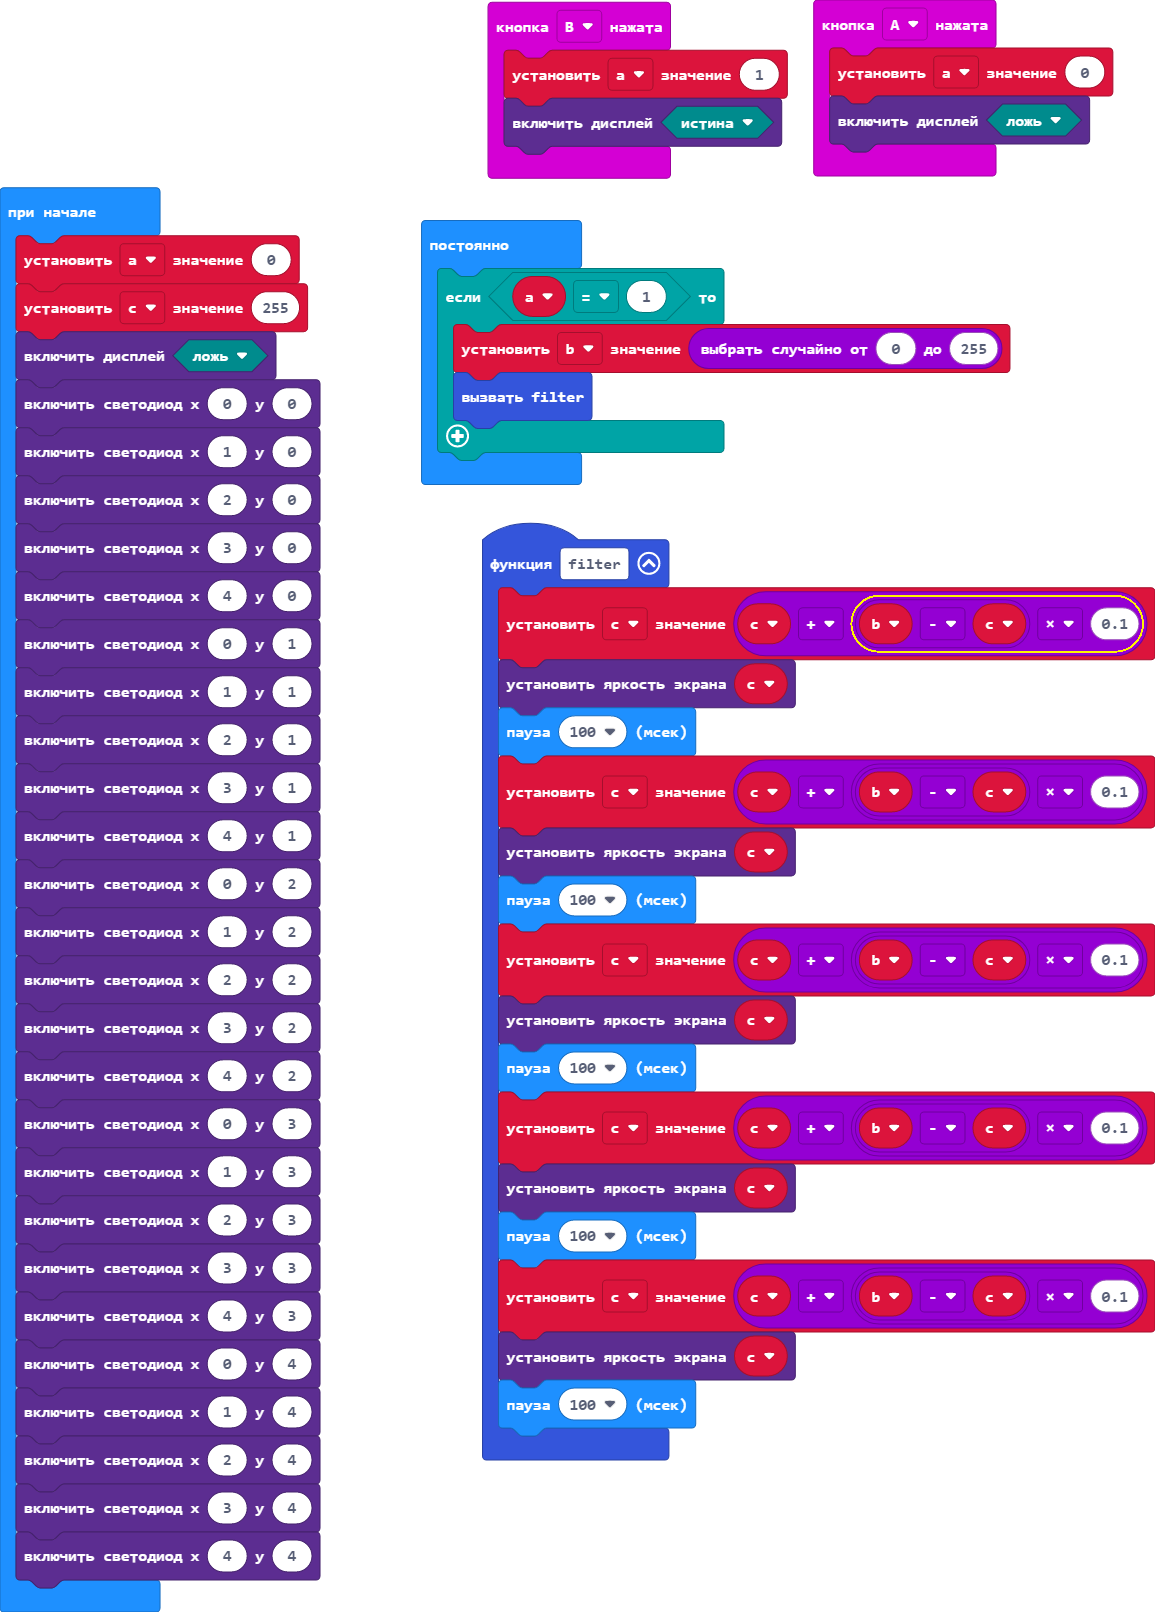
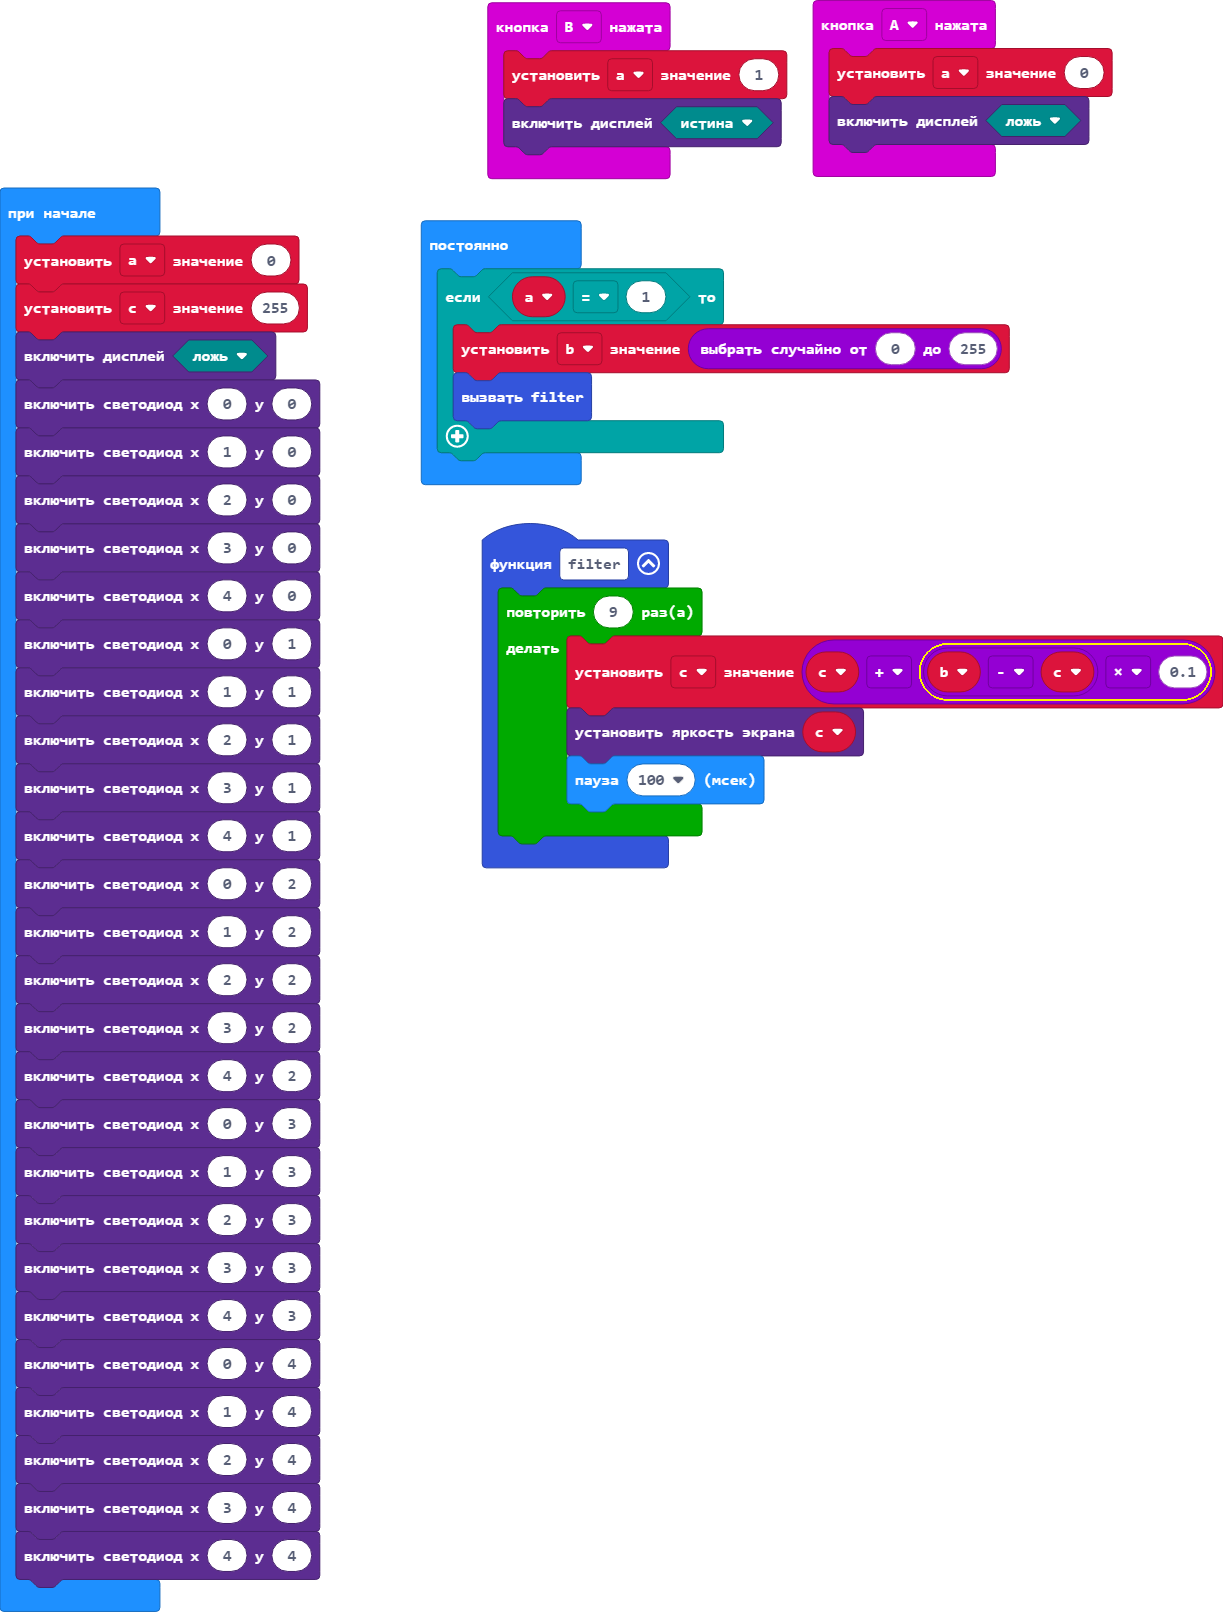
for

diff --git a/main.ts b/main.ts
@@ -3,21 +3,11 @@ input.onButtonPressed(Button.A, function () {
     led.enable(false)
 })
 function filter () {
-    c = c + (b - c) * 0.1
-    led.setBrightness(c)
-    basic.pause(100)
-    c = c + (b - c) * 0.1
-    led.setBrightness(c)
-    basic.pause(100)
-    c = c + (b - c) * 0.1
-    led.setBrightness(c)
-    basic.pause(100)
-    c = c + (b - c) * 0.1
-    led.setBrightness(c)
-    basic.pause(100)
-    c = c + (b - c) * 0.1
-    led.setBrightness(c)
-    basic.pause(100)
+    for (let index = 0; index < 9; index++) {
+        c = c + (b - c) * 0.1
+        led.setBrightness(c)
+        basic.pause(100)
+    }
 }
 input.onButtonPressed(Button.B, function () {
     a = 1
